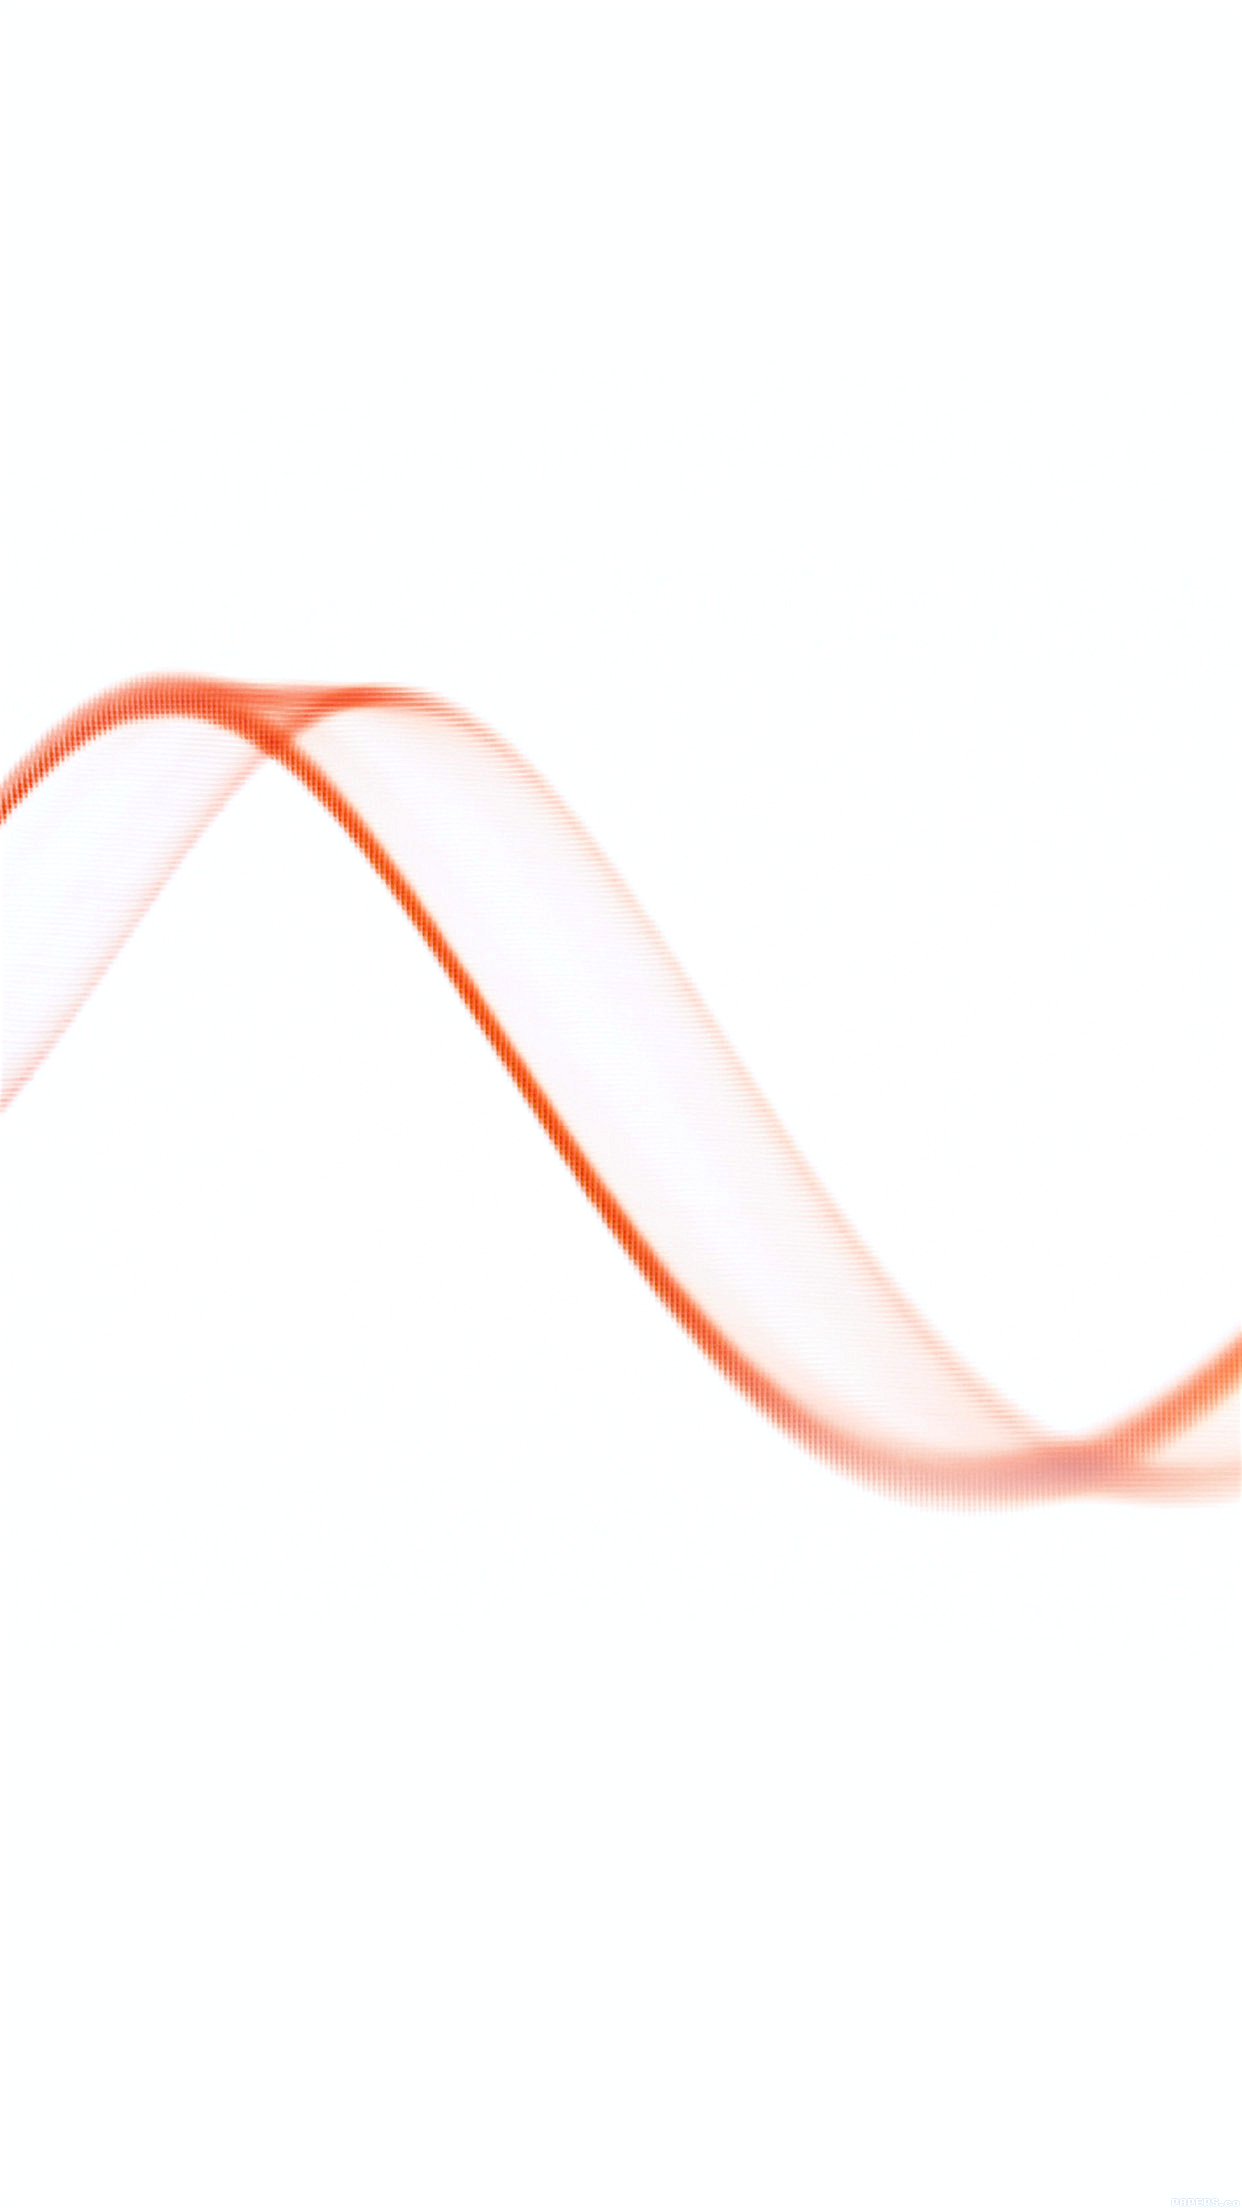
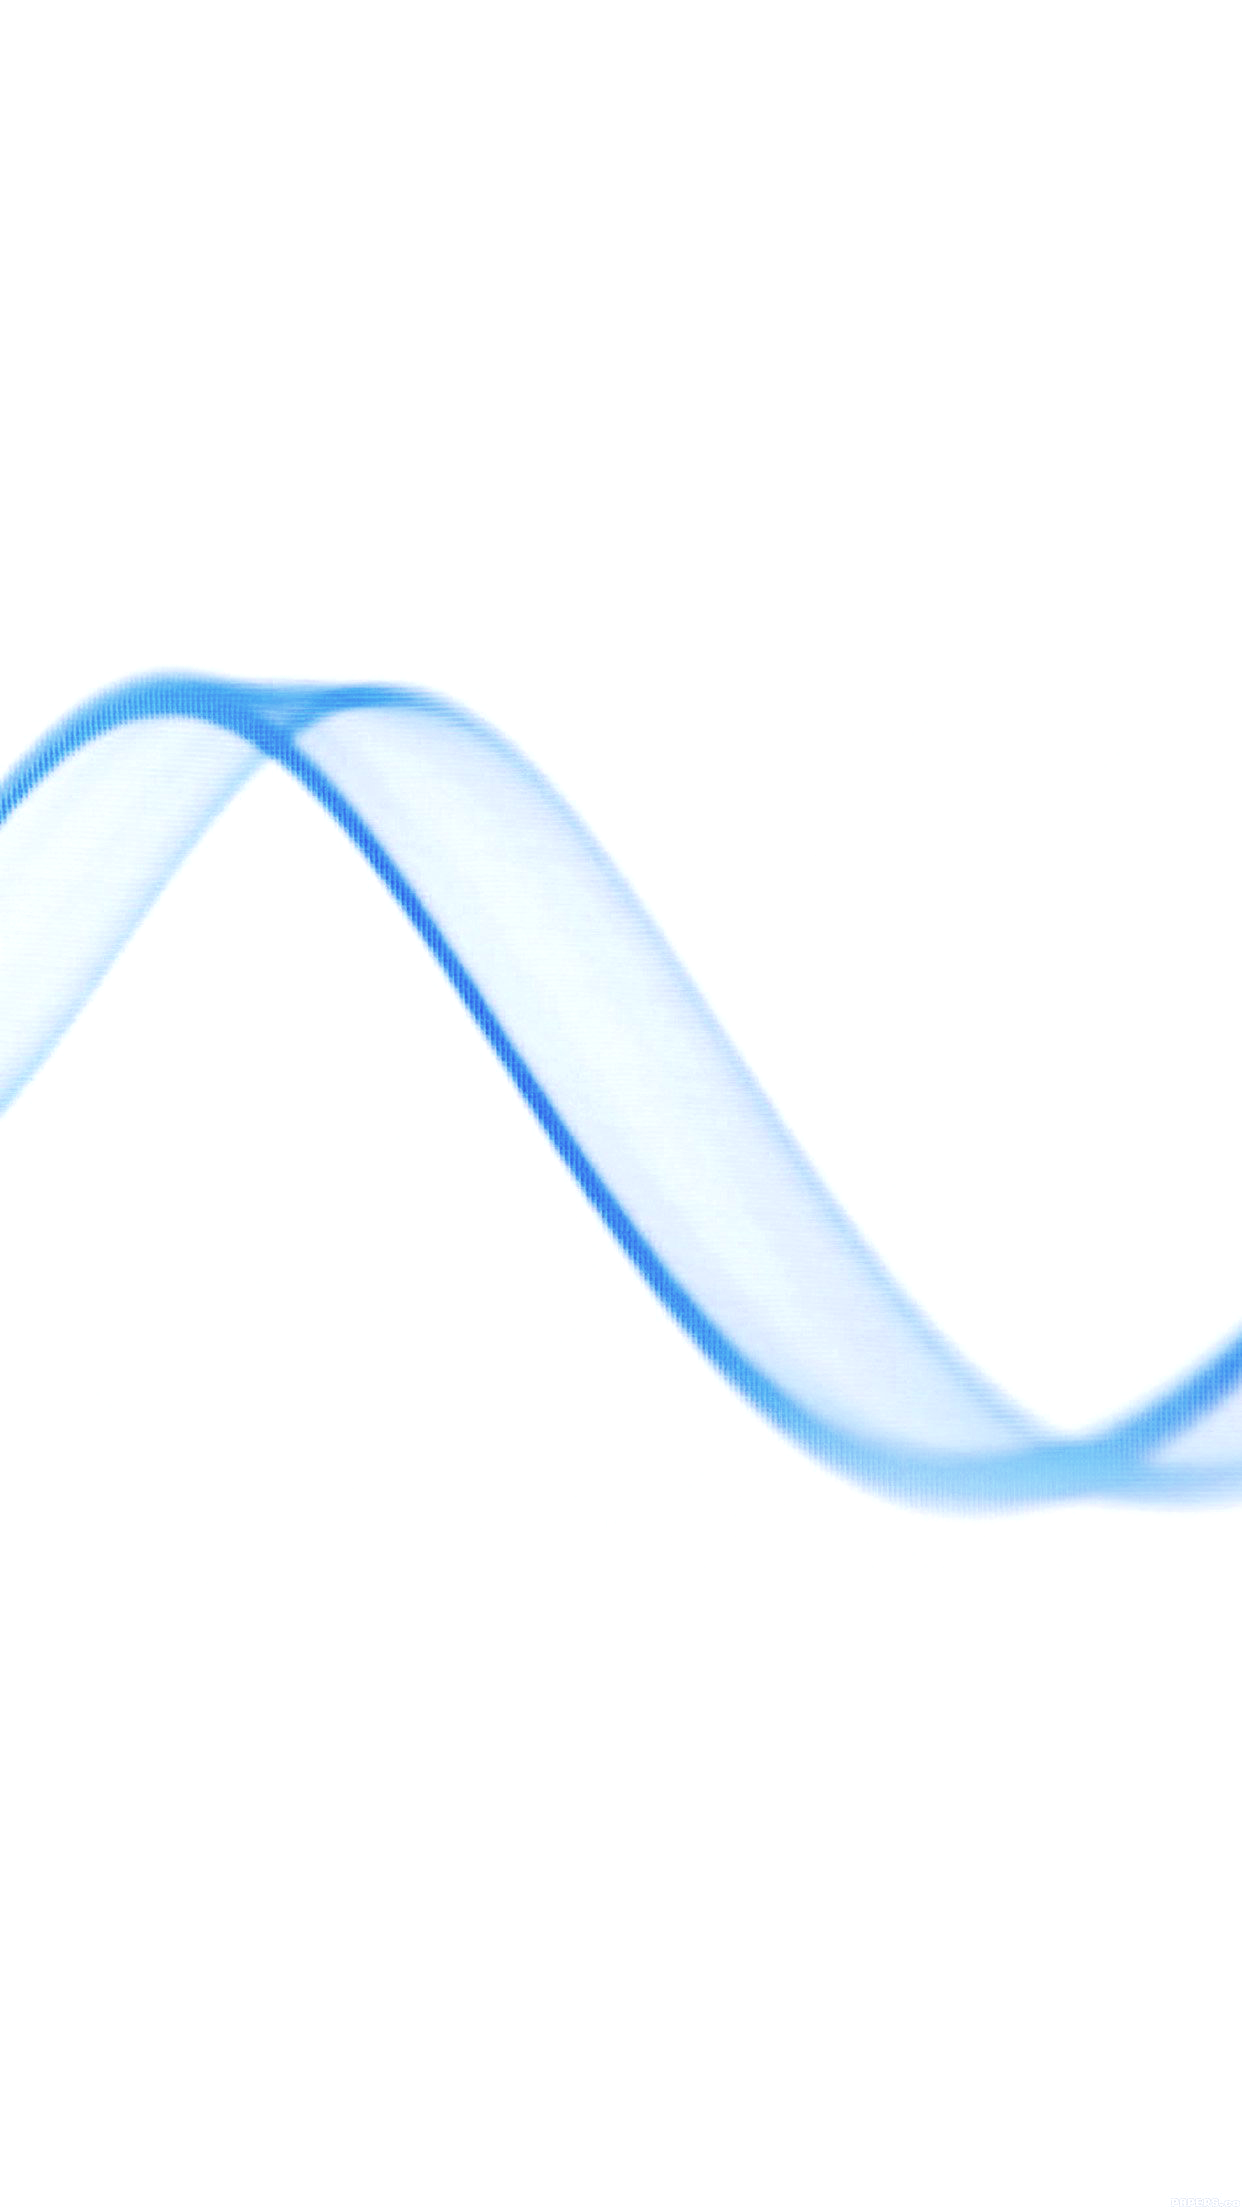
added background image

Changed region(s): [[0.0, 0.2812, 1.0, 0.6875], [0.0, 0.4062, 0.1224, 0.5], [0.1224, 0.375, 0.153, 0.4062]]

diff --git a/NumberMe/VCs/GameViewController.m b/NumberMe/VCs/GameViewController.m
@@ -27,6 +27,7 @@
 @property (nonatomic, assign) NSInteger currentBoxSet;
 
 @property (nonatomic, assign) NSInteger totalTries;
+@property (weak, nonatomic) IBOutlet UIImageView *backgrounImageView;
 
 //number buttons
 @property (nonatomic, strong) UIButton *numberZero;
@@ -113,6 +114,8 @@
     
 //    self.edgesForExtendedLayout = UIRectEdgeNone;
     
+    self.backgrounImageView.contentMode = UIViewContentModeScaleAspectFill;
+    
     
     _verticalGap = 20.0f;
     
@@ -179,6 +182,7 @@
     {
         _guideLabel.text = NSLocalizedString(@"GUIDE_ONE", nil);
         [self initTimer];
+        [_backgrounImageView setImage:[UIImage imageNamed:@"GBGNORM"]];
     }
     else if (_theGameMode == gameModeInfinity)
     {
@@ -186,6 +190,7 @@
         _totalTries = _game.availableTries;
         [self initProgressBar];
         [self initTimerLabel];
+        [_backgrounImageView setImage:[UIImage imageNamed:@"GBGINFI"]];
     }
     else if (_theGameMode == gameModeLevelUp)
     {
@@ -193,6 +198,7 @@
         _totalTries = _game.availableTries;
         [self initTimer];
         [self initProgressBar];
+        [_backgrounImageView setImage:[UIImage imageNamed:@"GBGLV"]];
     }
     
     [[NSNotificationCenter defaultCenter] addObserver:self selector:@selector(quit) name:@"quit" object:nil];

diff --git a/NumberMe/Views/GameModeSelectionView.m b/NumberMe/Views/GameModeSelectionView.m
@@ -125,7 +125,7 @@
         gameModeImageView.contentMode = UIViewContentModeScaleToFill;
         [gameModeImageView setImage:[_gameModeImageArray objectAtIndex:i]];
         UILabel *gameModeLabel = [[UILabel alloc] initWithFrame:CGRectMake(0, 0, gameModeWidth, gameModeHeight)];
-        gameModeLabel.backgroundColor = [[UIColor blackColor] colorWithAlphaComponent:0.2f];
+        gameModeLabel.backgroundColor = [[UIColor blackColor] colorWithAlphaComponent:0.1f];
         gameModeLabel.textAlignment = NSTextAlignmentCenter;
         gameModeLabel.font = [UIFont fontWithName:@"KohinoorDevanagari-Book" size:16.0f];
         gameModeLabel.textColor = [UIColor whiteColor];
